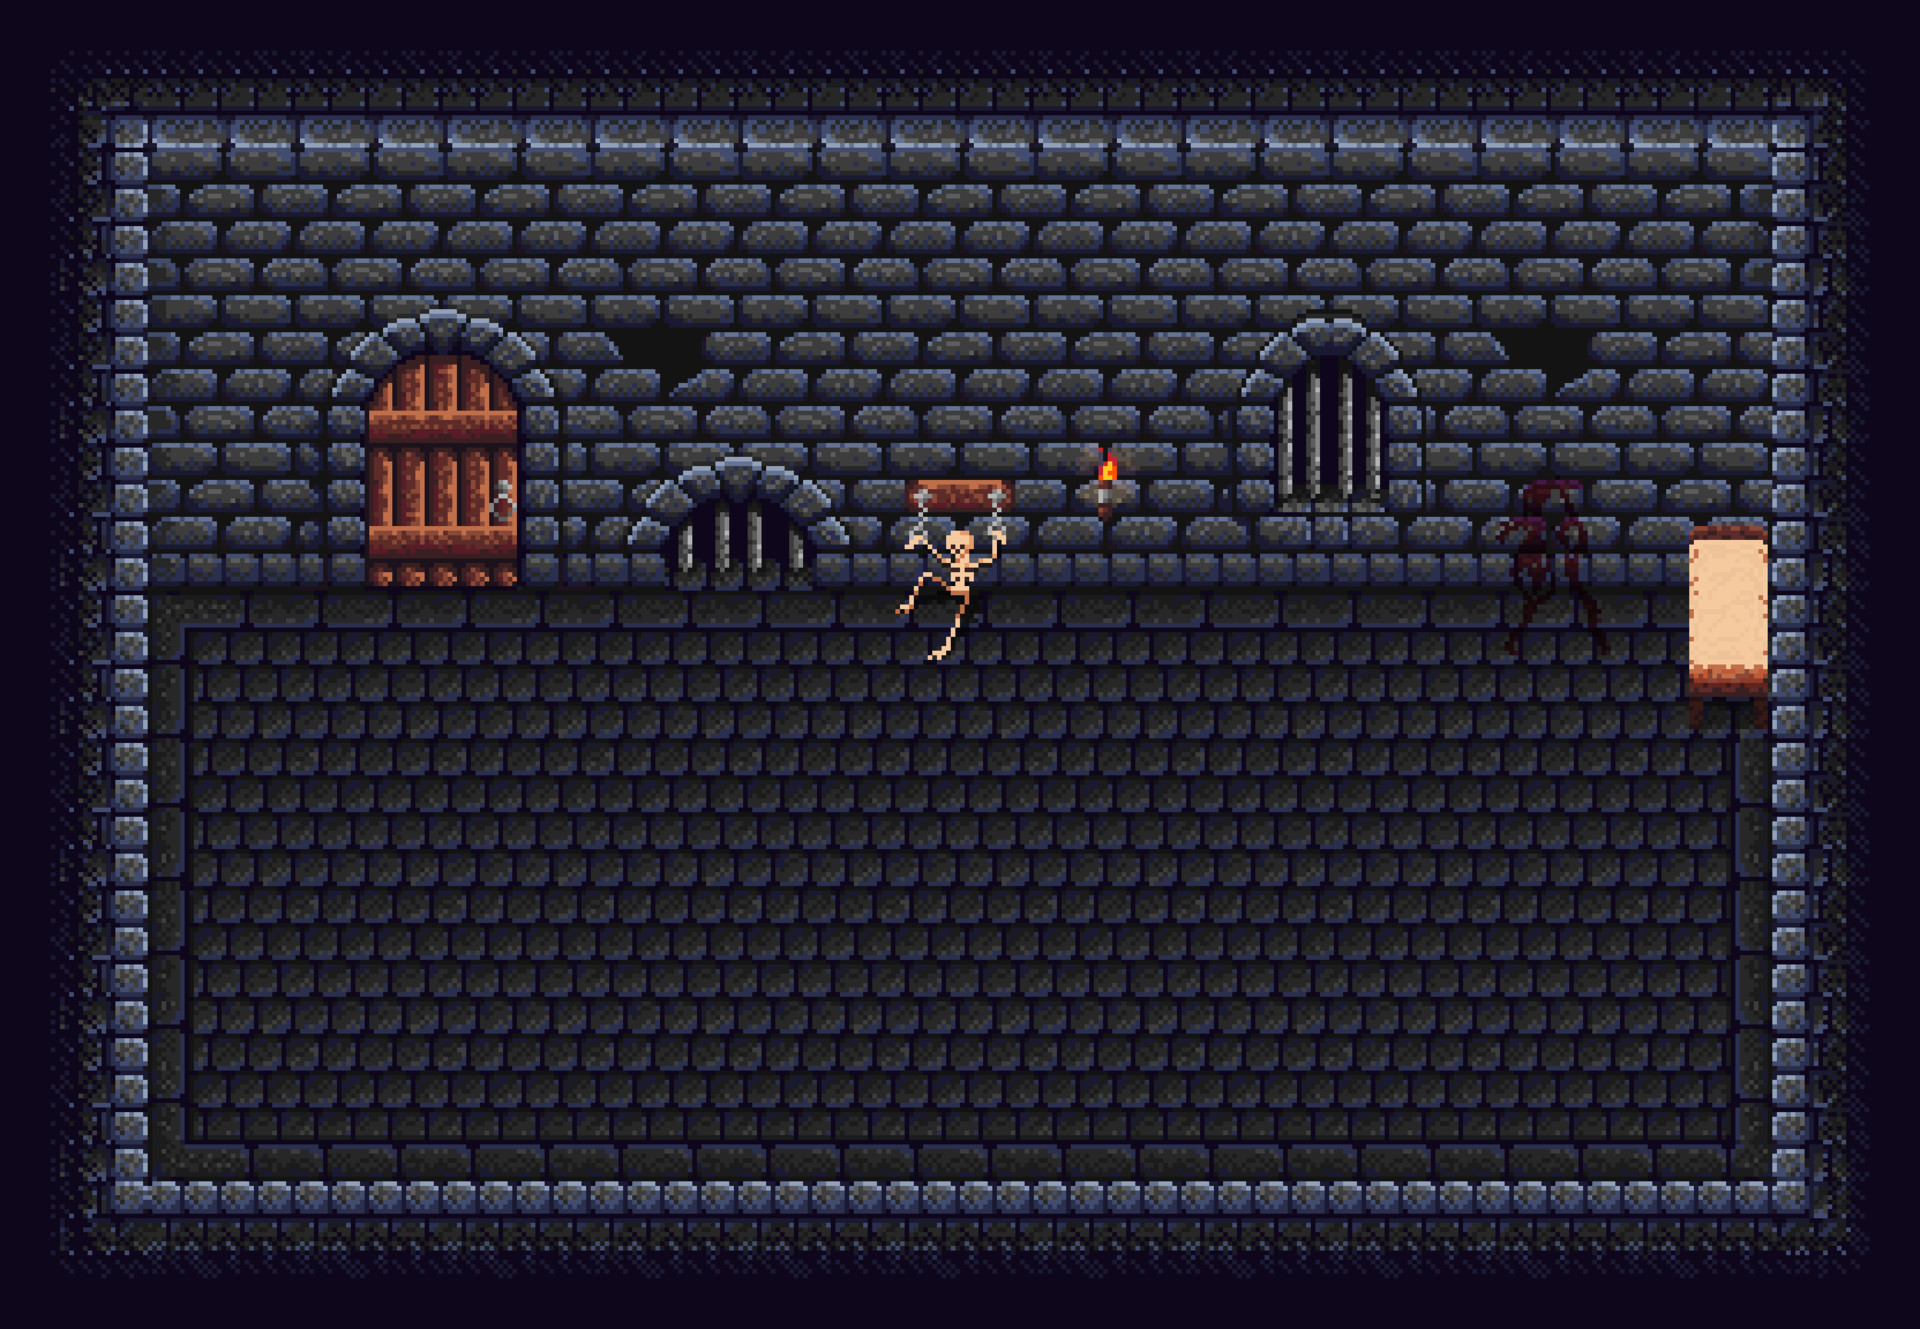
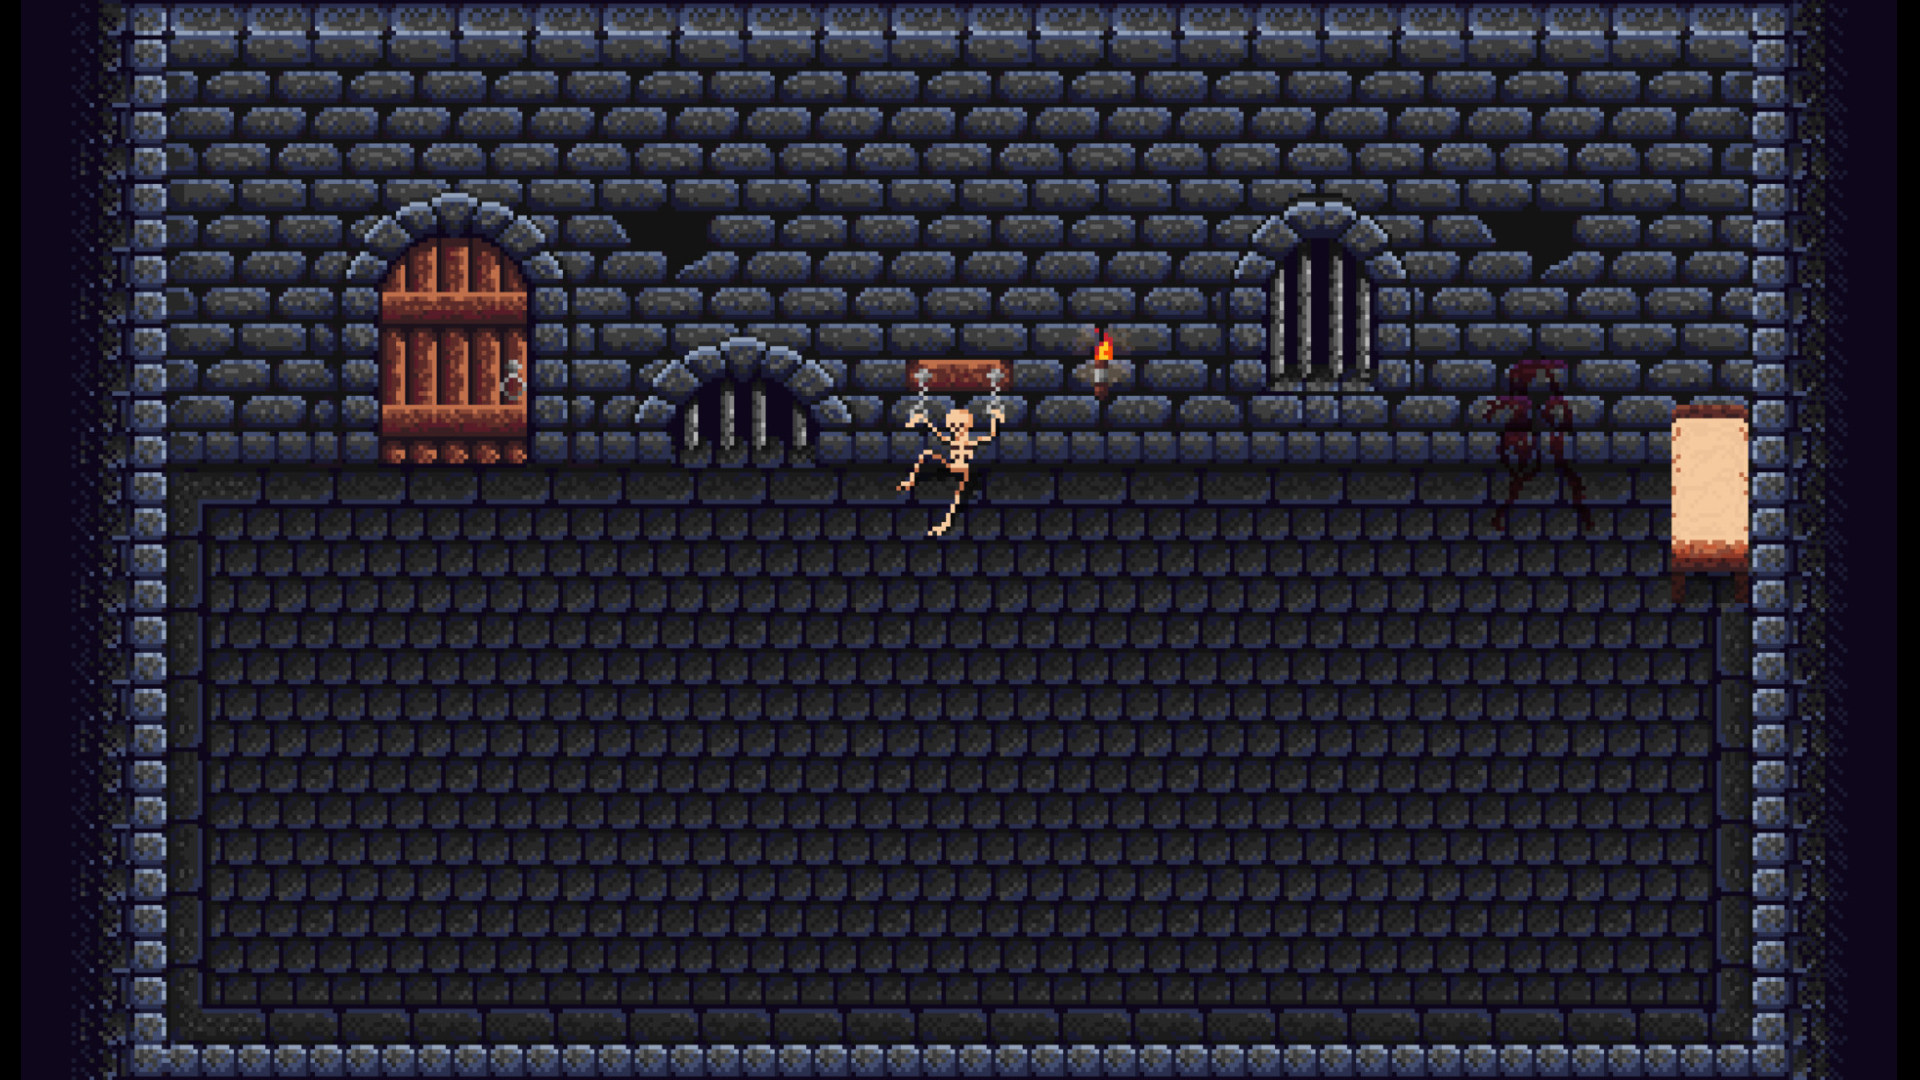
changed background

diff --git a/styles/main.css b/styles/main.css
@@ -55,6 +55,10 @@ body {
   background-position: center;
 }
 
+#slide-6{
+  background-image: url("../media/pictures/dungeon-background-treasures.jpg");  
+}
+
 /* Navbar styling*/
 .navbar {
   position: relative;
